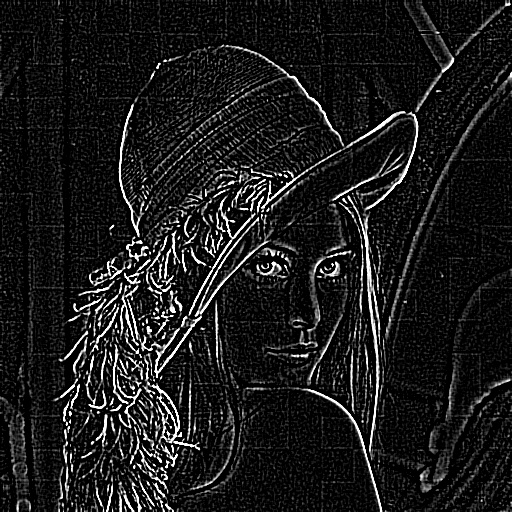
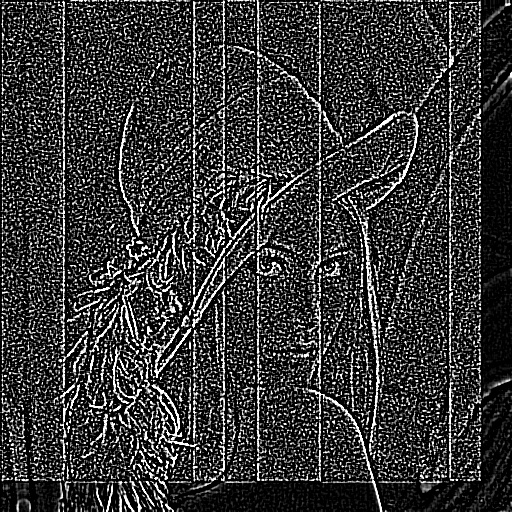
Zapisanie znaków i odczytywanie. Specjalnie szeroki szum, aby mieć pewność, że odczyta się poprawnie wiadomość. Wykryto problem z krawędziami znaku, wygląda na to że jest nieprawidłowy przedział pętli.

diff --git a/python/1/WatermarkImage.py b/python/1/WatermarkImage.py
@@ -11,7 +11,21 @@ class WatermarkImage:
             self.org = np.zeros((512, 512), np.uint8)
         else:
             self.org = cv2.imread(original_image, 0)  #f.k.a. img
+
         self.message = message
+
+        if len(self.message) < 32:
+            difference = 32 - len(self.message)
+            message += difference * "1"
+
+        self.message_binary = ""
+        self.message_numbers = []
+        self.temporary_binary = ""
+
+
+        self.message_detected = ""
+        self.message_binary_detected = ""
+        self.detected_letters_binary = []
 
         self.height = self.org.shape[0]
         self.width = self.org.shape[1]
@@ -51,18 +65,39 @@ class WatermarkImage:
     def getWidth(self):
         return self.width
 
-    def set_message_matrix(self, message):
+    def convert_to_eight_bit(self,string):
+        if len(string) == 8:
+            return string
+        else:
+            difference = 8 - len(string)
+            newstring = difference * '0'
+            newstring += string
+            return newstring
+
+    def set_message_matrix(self):
         # at this moment we do not use paremeter: "message"
         # We are still using random numbers to fill matrix
-        for i in range(self.K):
-            for j in range(self.K):
-                self.message_matrix[i, j] = random.randint(0, 1)
-                if self.message_matrix[i][j] == 0:
-                    self.message_matrix[i][j] = -1
+#        for i in range(self.K):
+#            for j in range(self.K):
+#                self.message_matrix[i, j] = random.randint(0, 1)
+#                if self.message_matrix[i][j] == 0:
+#                    self.message_matrix[i][j] = -1
+        for c in self.message:
+            self.temporary_binary = bin(ord(c))
+            self.eight_bit_binary = self.convert_to_eight_bit(self.temporary_binary[2:])
+            self.message_binary += self.eight_bit_binary
+        for i in range(16):
+            for j in range(16):
+                if self.message_binary[i*16+ j] == '1':
+                    self.message_matrix[i, j] = 1
+                else:
+                    self.message_matrix[i, j] = -1
+
+
 
     def set_watermark(self):
-        for i in range(1, self.Mb + 1):
-            for j in range(1, self.Nb + 1):
+        for i in range(self.Mb):
+            for j in range(self.Nb):
                 self.watermark[(i - 1) * self.K + 1:i * self.K + 1, (j - 1) * self.K + 1:j * self.K + 1] = \
                     self.message_matrix[i][j]
                 self.watermark_visible[(i - 1) * self.K + 1:i * self.K + 1, (j - 1) * self.K + 1:j * self.K + 1] = \
@@ -71,7 +106,7 @@ class WatermarkImage:
     def set_noise(self):
         for i in range(self.width):
             for j in range(self.height):
-                self.noise[i][j] = random.randint(1, 6)
+                self.noise[i][j] = random.randint(1, 60)
         self.noise_is_set = True
 
     def set_noised_watermark(self):
@@ -88,7 +123,7 @@ class WatermarkImage:
             self.Nb = self.height / self.K
 
     def write_watermark(self):
-        self.set_message_matrix("")
+        self.set_message_matrix()
         self.set_watermark()
         self.set_noise()
         self.set_noised_watermark()
@@ -101,10 +136,20 @@ class WatermarkImage:
         self.demmod_img = self.dst * self.noise
 
     def set_watermark_detected(self):
-        for i in range(1, self.Mb + 1):
-            for j in range(1, self.Nb + 1):
+        for i in range(self.Mb):
+            for j in range(self.Nb):
                 self.watermark_detected[(i - 1) * self.K + 1:i * self.K + 1, (j - 1) * self.K + 1:j * self.K + 1] = \
                     np.sign(np.sum(self.demmod_img[(i - 1) * self.K + 1:i * self.K + 1, (j - 1) * self.K + 1:j * self.K + 1]))
+                if np.sign(np.sum(self.demmod_img[(i - 1) * self.K + 1:i * self.K + 1, (j - 1) * self.K + 1:j * self.K + 1])) > 0:
+                    self.message_binary_detected += '1'
+                else:
+                    self.message_binary_detected += '0'
+
+    def set_message_detected(self):
+        self.detected_letters_binary = [self.message_binary_detected[i:i+8] for i in range(0, len(self.message_binary_detected), 8)]
+        for item in self.detected_letters_binary:
+            self.c = chr(int(item,2))
+            self.message_detected += self.c
 
     def check_watermark_detected(self):
         self.check_watermark_detected = self.watermark_detected - self.watermark_visible
@@ -116,6 +161,7 @@ class WatermarkImage:
             self.set_noise()
         self.set_demmod_img()
         self.set_watermark_detected()
+        self.set_message_detected()
         self.check_watermark_detected()
 
     def write_all_images_to_files(self):

diff --git a/python/1/script.py b/python/1/script.py
@@ -7,7 +7,7 @@ from WatermarkImage import WatermarkImage
 #users_message = raw_input("Please enter your message")
 
 file_path = 'lena.bmp'
-users_message = 'weglowodany'
+users_message = 'aaaaaaaaaaaaaaaaaaaaaaaaaaaaaaaa'
 
 img = WatermarkImage(file_path, users_message)
 img.write_watermark()
@@ -27,3 +27,4 @@ img.read_watermark()
 #####################################################################
 img.write_all_images_to_files()
 
+print img.message_detected
